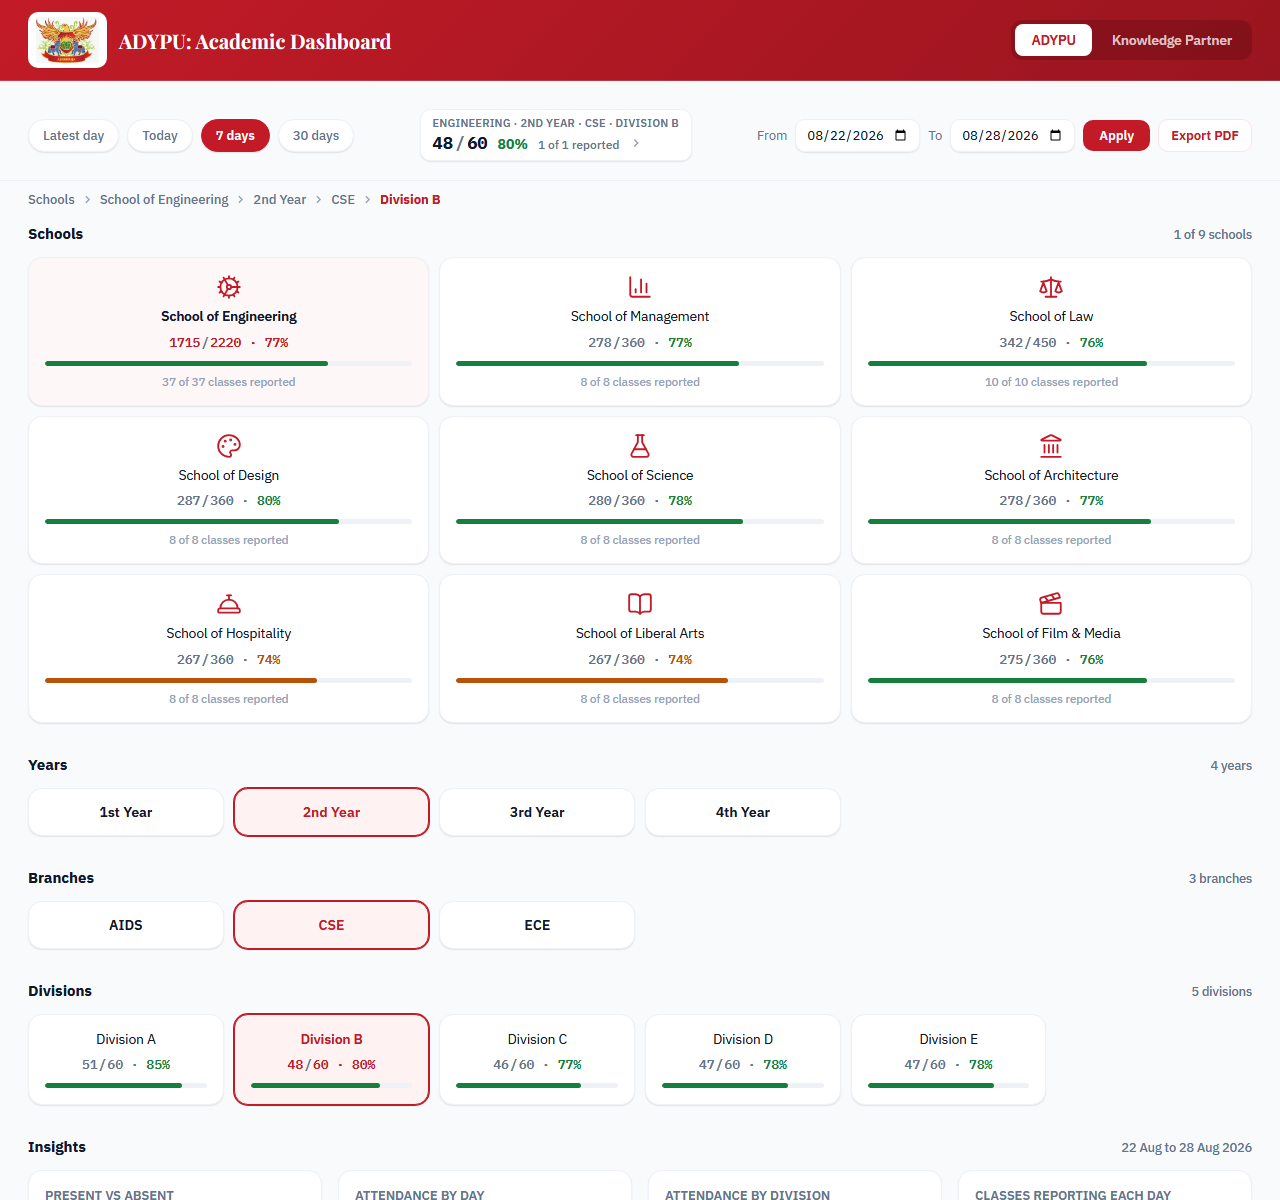
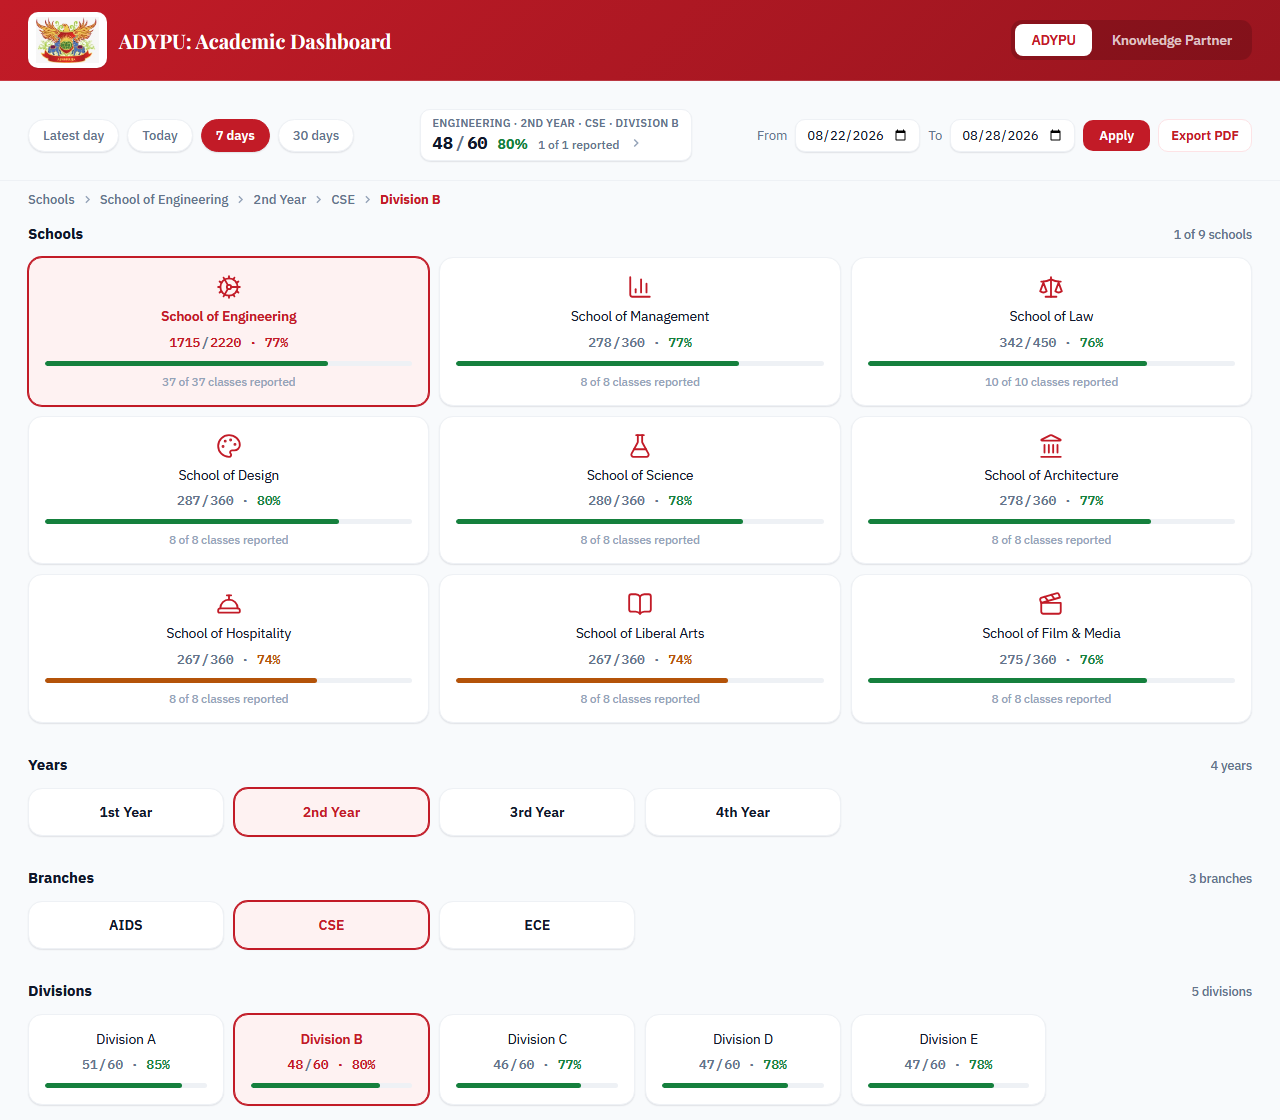
Tighten the README and stop its screenshots overlapping

diff --git a/README.md b/README.md
@@ -1,31 +1,29 @@
 # ADYPU Academic Dashboard
 
-Daily attendance for Ajeenkya D Y Patil University, from a Google Form to a
-dashboard the leadership team can read at a glance. Nine schools, 103 classes,
-drilled School to Year to Branch to Division, over any date range.
+Daily attendance for Ajeenkya D Y Patil University: nine schools, 103 classes,
+drilled from School to Year to Branch to Division over any date range.
 
 Live: <https://adypu-academic-dashboard.fast-page.org/>
 
 ![The dashboard](docs/screenshots/dashboard.png)
 
-*All figures in these screenshots are sample data.*
+*Figures in these screenshots are sample data.*
 
 ## What it does
 
-- **One number that means something.** Present against the strength of the
-  classes that actually reported, next to a count of how many of the 103
-  classes those were. Neither number can mislead on its own.
-- **Any date range.** Presets for the latest day, today, 7 and 30 days, or two
-  native date inputs. A range averages each class over the days it reported, so
-  a week stays comparable to a day, and the breakdown names the exact dates
-  behind every average.
+- **A number that means something.** Present against the strength of the classes
+  that reported, beside a count of how many of the 103 those were. Neither can
+  mislead on its own.
+- **Any date range.** Presets, or two date inputs. A range averages each class
+  over the days it reported, so a week stays comparable to a day, and the
+  breakdown names the dates behind every average.
 - **Drill down and everything follows.** Pick a school, year, branch or a single
-  division and the summary, the breadcrumb and all four charts rescope to it.
+  division; the summary, breadcrumb and all four charts rescope to it.
 - **Charts with no chart library.** Present against absent, attendance per day
-  against the university's 75% rule, a ranked comparison of whatever sits one
-  level below your selection, and how many classes filed a form each day.
+  against the 75% rule, a ranked comparison one level below your selection, and
+  how many classes filed a form each day.
 - **Export as PDF.** The page prints itself as a dated report, named after the
-  breadcrumb, showing only the school you drilled into.
+  breadcrumb, showing only the school in view.
 
 ![Drilling down to a division](docs/screenshots/drilldown.png)
 
@@ -48,52 +46,44 @@ Google Form  ->  response Sheet  ->  Apps Script (tools/apps-script.gs)
                        api/division.php
 ```
 
-Google pushes to the dashboard rather than the dashboard pulling from Google,
-because the host blocks outbound HTTP from PHP. The cache holds one present
+Faculty submit a present count on a Google Form; an Apps Script pushes the
+response sheet to `api/ingest.php` on every submission. The cache holds one
 count per class per day, which is what lets any date range be rebuilt from it.
 
-Two things are deliberate and easy to get wrong:
+Two rules hold the numbers together:
 
 - **`includes/structure.php` is canonical.** Every class that exists and its
-  strength. Faculty submit a present count only; the denominator never comes
-  from a submitted row, so it cannot drift from a typo on the Form.
-- **The structure leads the submissions.** A class nobody reported still exists
-  in the tree, still contributes its strength, and is marked `reported => false`,
-  so "nobody came" and "nobody submitted" can never look the same.
+  strength. The denominator never comes from a submitted row, so it cannot drift
+  from a typo on the Form.
+- **The structure leads the submissions.** A class nobody reported still exists,
+  still contributes its strength, and is flagged unreported, so "nobody came"
+  and "nobody submitted" never look the same.
 
-## Stack
+## Running it
 
-PHP 8 with no framework, no Composer, and no build step. Vanilla JavaScript in
-plain `<script src>` tags, CSS with custom properties, inline SVG icons. Charts
-are hand-drawn SVG and CSS. MySQL (`db/schema.sql`) is defined but not read
-from: the app runs with no database at all.
-
-## Running it locally
+PHP 8, no framework, no Composer, no build step. Vanilla JS, hand-drawn SVG
+charts.
 
 ```
 php -S localhost:8000                  # then open /index.php
-php tests/test_attendance_parser.php   # the parser suite, prints OK
-node tests/test_charts.js              # the chart scoping suite, prints OK
-php tools/form-options.php             # regenerate the Form's dropdown options
-php tools/data-request.php structure   # the school data request workbook
+php tests/test_attendance_parser.php   # parser suite, prints OK
+node tests/test_charts.js              # chart scoping suite, prints OK
+php tools/form-options.php             # regenerate the Form's dropdowns
 ```
 
-With no `cache/attendance.json`, the dashboard serves sample rows so the UI is
-usable on a fresh checkout.
-
-`tests/` is two assert-based scripts, no framework. Add a case for any parser
-change: every bug so far has been a row silently not counting, which is exactly
-what a test catches and eyeballing does not.
+With no `cache/attendance.json`, the dashboard serves sample rows, so a fresh
+checkout is usable straight away. `tests/` is two assert-based scripts, no
+framework; add a case for any parser change.
 
 ## Layout
 
 ```
-index.php              the dashboard
-api/ingest.php         receives the pushed sheet
-api/division.php       division breakdown for the modal
+index.php                dashboard
+api/ingest.php           receives the pushed sheet
+api/division.php         division breakdown for the modal
 includes/attendance.php  parsing, the day map, ranges, totals
 includes/structure.php   the canonical class list
-js/dashboard.js        drill-down, range controls, the modal
-js/charts.js           the four charts
-tools/apps-script.gs   goes in the Apps Script editor, not on the server
+js/dashboard.js          drill-down, range controls, modal
+js/charts.js             the four charts
+tools/apps-script.gs     goes in the Apps Script editor
 ```
